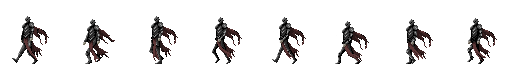
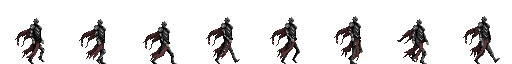
los sprites se voltean bien dependiendo de la direccion

diff --git a/ProyectoH/src/components/RouteComponent.h b/ProyectoH/src/components/RouteComponent.h
@@ -1,6 +1,7 @@
 #pragma once
 #include "..//ecs/Manager.h"
 #include "Transform.h"
+#include "RenderComponent.h"
 #include "..//utils/NetMap.h"
 #include "..//ecs/Component.h"
 #include <vector>
@@ -9,7 +10,7 @@ class RouteComponent :public Component
 public:
 	const float epsilon = 2.5;
 	static const cmpId id = cmpId::_ROUTE;
-	RouteComponent(std::vector<Vector2D> route) :transform_(nullptr), route_(route), destiny_(0){};
+	RouteComponent(std::vector<Vector2D> route) :transform_(nullptr), renderComponent_(nullptr), route_(route), destiny_(0){};
 	void initComponent();
 	void update();
 	void checkdestiny();
@@ -18,5 +19,6 @@ private:
 	int destiny_;
 	std::vector<Vector2D> route_;
 	Transform* transform_;
+	RenderComponent* renderComponent_;
 };
 

diff --git a/ProyectoH/src/components/RouteComponent.cpp b/ProyectoH/src/components/RouteComponent.cpp
@@ -8,6 +8,7 @@ RouteComponent::update() {
 void
 RouteComponent::initComponent() {
 	transform_ = mngr_->getComponent<Transform>(ent_);
+	renderComponent_ = mngr_->getComponent<RenderComponent>(ent_);
 	changevelocity(route_[0]);
 }
 
@@ -32,4 +33,10 @@ RouteComponent::changevelocity(Vector2D destino) {
 	v=v.normalize();
 	//transform_->setVelocity(v.normalize() * transform_->getVelocity()->magnitude());
 	transform_->setVelocity(v);
+	if (v.getX() > 0) {
+		renderComponent_->setFlip(SDL_FLIP_NONE);
+	}
+	else if (v.getX() < 0) {
+		renderComponent_->setFlip(SDL_FLIP_HORIZONTAL);
+	}
 }

diff --git a/ProyectoH/src/components/RenderComponent.h b/ProyectoH/src/components/RenderComponent.h
@@ -35,14 +35,25 @@ class RenderComponent : public Component
 {
 private:
 	gameTextures texture;
+	SDL_RendererFlip flip_;
 public:
 	static const cmpId id = cmpId::_RENDER;
 
-	RenderComponent(gameTextures texture) : texture(texture){};
+	RenderComponent(gameTextures texture) : texture(texture){
+		flip_ = SDL_FLIP_NONE;
+	};
 
 	gameTextures getTexture() { return texture; };
 	inline void setTexture(gameTextures t) {
 		texture = t;
+	}
+
+	void setFlip(SDL_RendererFlip flip) {
+		flip_ = flip;
+	}
+
+	SDL_RendererFlip getFlip() const {
+		return flip_;
 	}
 
 };

diff --git a/ProyectoH/src/systems/RenderSystem.cpp b/ProyectoH/src/systems/RenderSystem.cpp
@@ -188,7 +188,8 @@ void RenderSystem::update() {
 		SDL_Rect trRect = tr->getRect();
 		trRect.x += offset->x;
 		trRect.y += offset->y;
-		if (fi != nullptr)textures[textureId]->render(srcRect, trRect, tr->getRotation());
+		SDL_RendererFlip flip = mngr_->getComponent<RenderComponent>(t)->getFlip();
+		if (fi != nullptr)textures[textureId]->render(srcRect, trRect, tr->getRotation(), nullptr,flip);
 		else textures[textureId]->render(trRect, tr->getRotation());
 	}
 

diff --git a/ProyectoH/src/sdlutils/Texture.h b/ProyectoH/src/sdlutils/Texture.h
@@ -101,4 +101,5 @@ private:
 	SDL_Renderer *renderer_;
 	int width_;
 	int height_;
+	SDL_RendererFlip flip_;
 };
